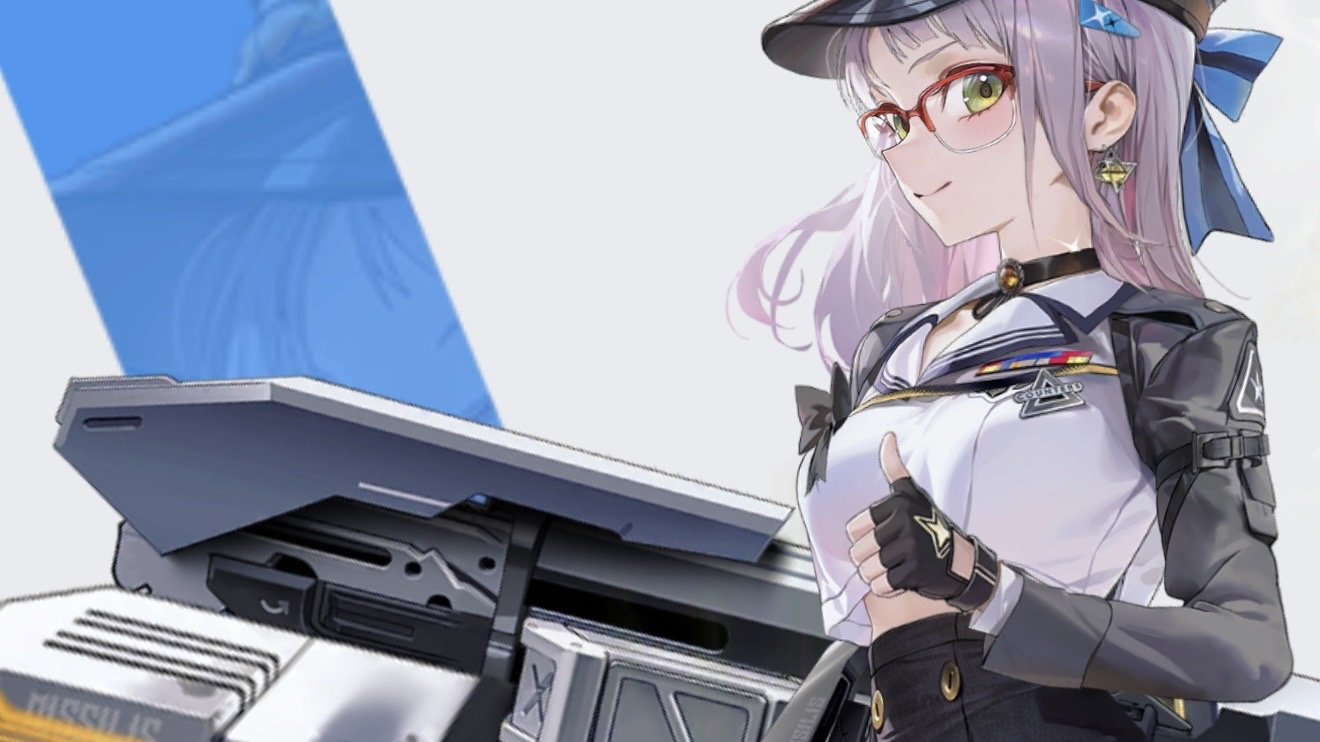
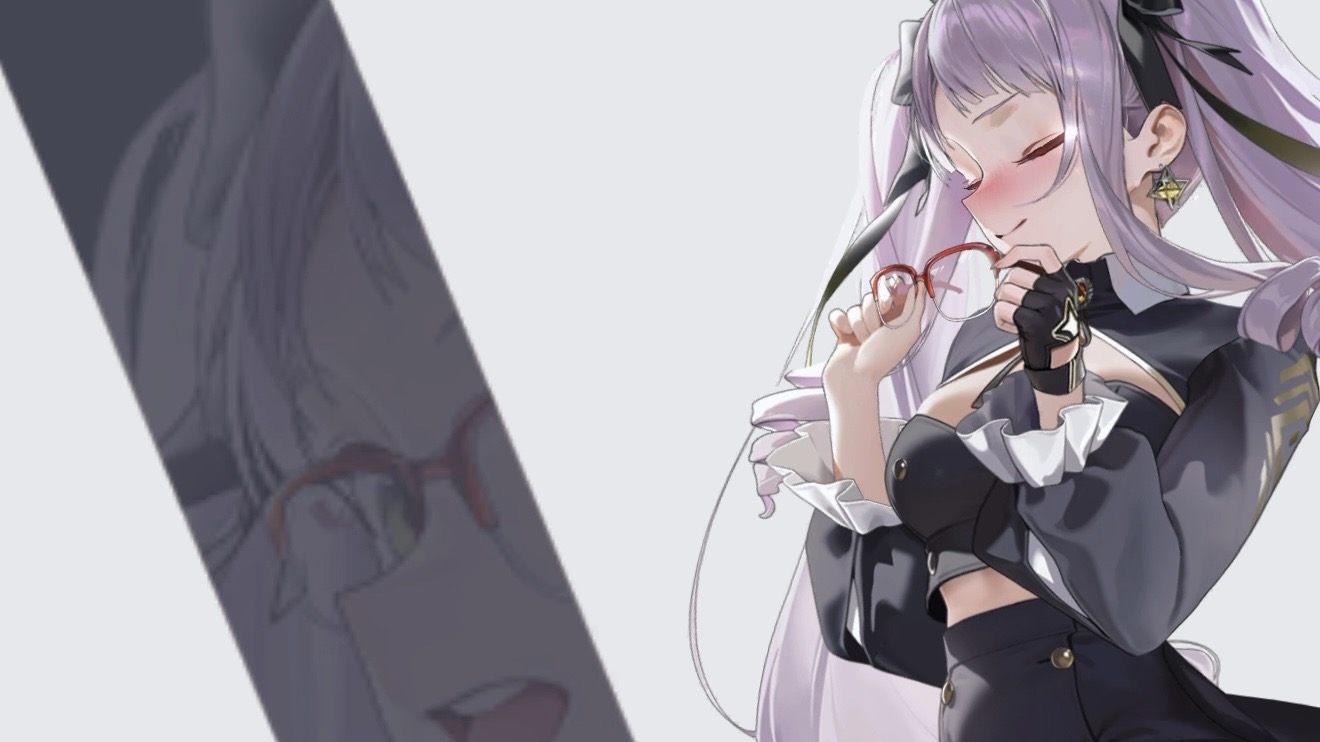
ネオン：ビジョン・アイのカード用画像（通常モード）を差し替え
Claude-Session: https://claude.ai/code/session_014qY3KiMv9eBXCmLh6yXGPV

diff --git a/指示書.md b/指示書.md
@@ -337,6 +337,7 @@ NIKKEのキャラクターのバフ情報を管理・表示するチェッカー
 -----
 -----
 ## 現状サマリー
+- **ネオン：ビジョン・アイの画像差し替え（2026-10-31）**：カード用・通常モード（neon_vi.jpg・16:9）とスロット用（neon_vi_slot.jpg・3:5）を新しい画像に差し替え（加工なし・同一ファイル名で上書き・characters.json無変更。超火力モードのneon_vi_alt.jpgは据え置き）。詳細は作業履歴.mdの同日ログ参照
 - **ラプンツェル：サンクチュアリの画像追加（2026-10-31）**：カード用（rapunzel_sc.jpg・16:9）・スロット用（rapunzel_sc_slot.jpg・3:5）を追加（加工なし）。cardBg・cardBgSlotのnullをURLに置換。詳細は作業履歴.mdの同日ログ参照
 - **ラプンツェル：サンクチュアリにCAUTION（2026-10-30）**：新規条件noSenAlly（臨戦状態を持つニケがいない時に「臨戦状態のニケが編成されていません」）。詳細は作業履歴.mdの同日ログ参照
 - **紅蓮：神殺・マリアン：クイーンのスロット用画像を差し替え（2026-10-30）**：huren_gs_slot.jpg・marian_queen_slot.jpg（3:5・加工なし・同一ファイル名で上書き・characters.json無変更）。詳細は作業履歴.mdの同日ログ参照
